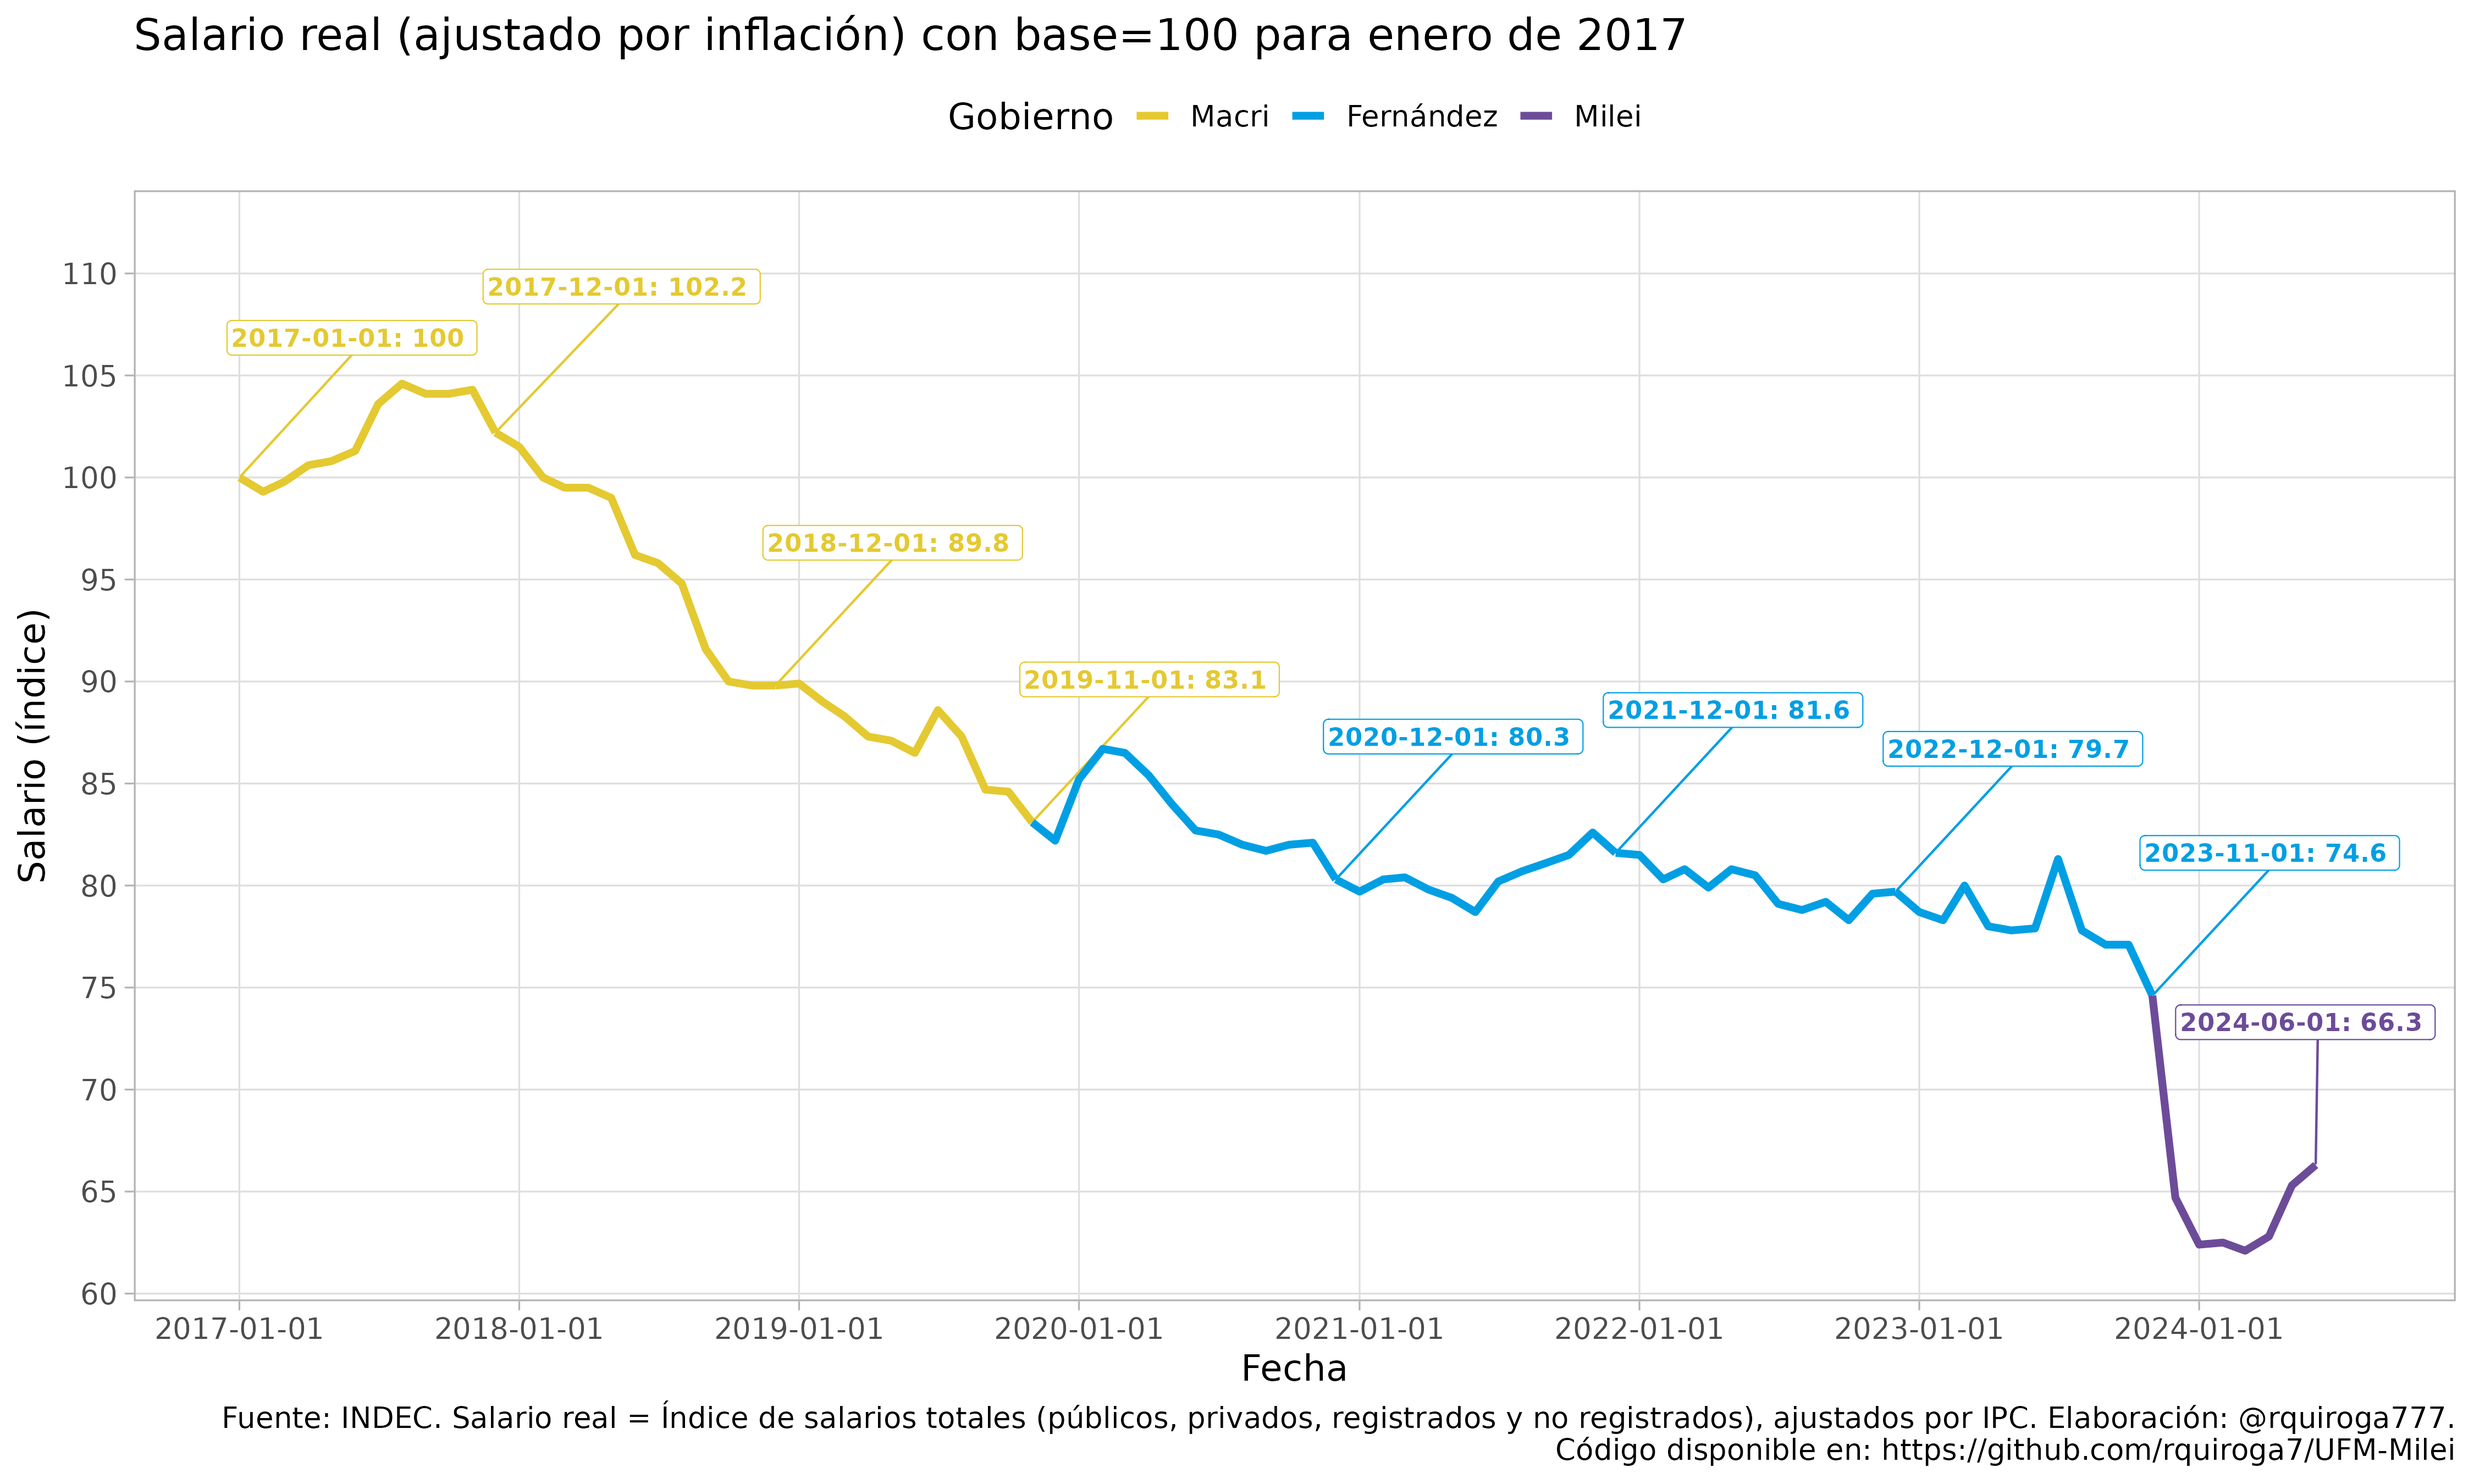
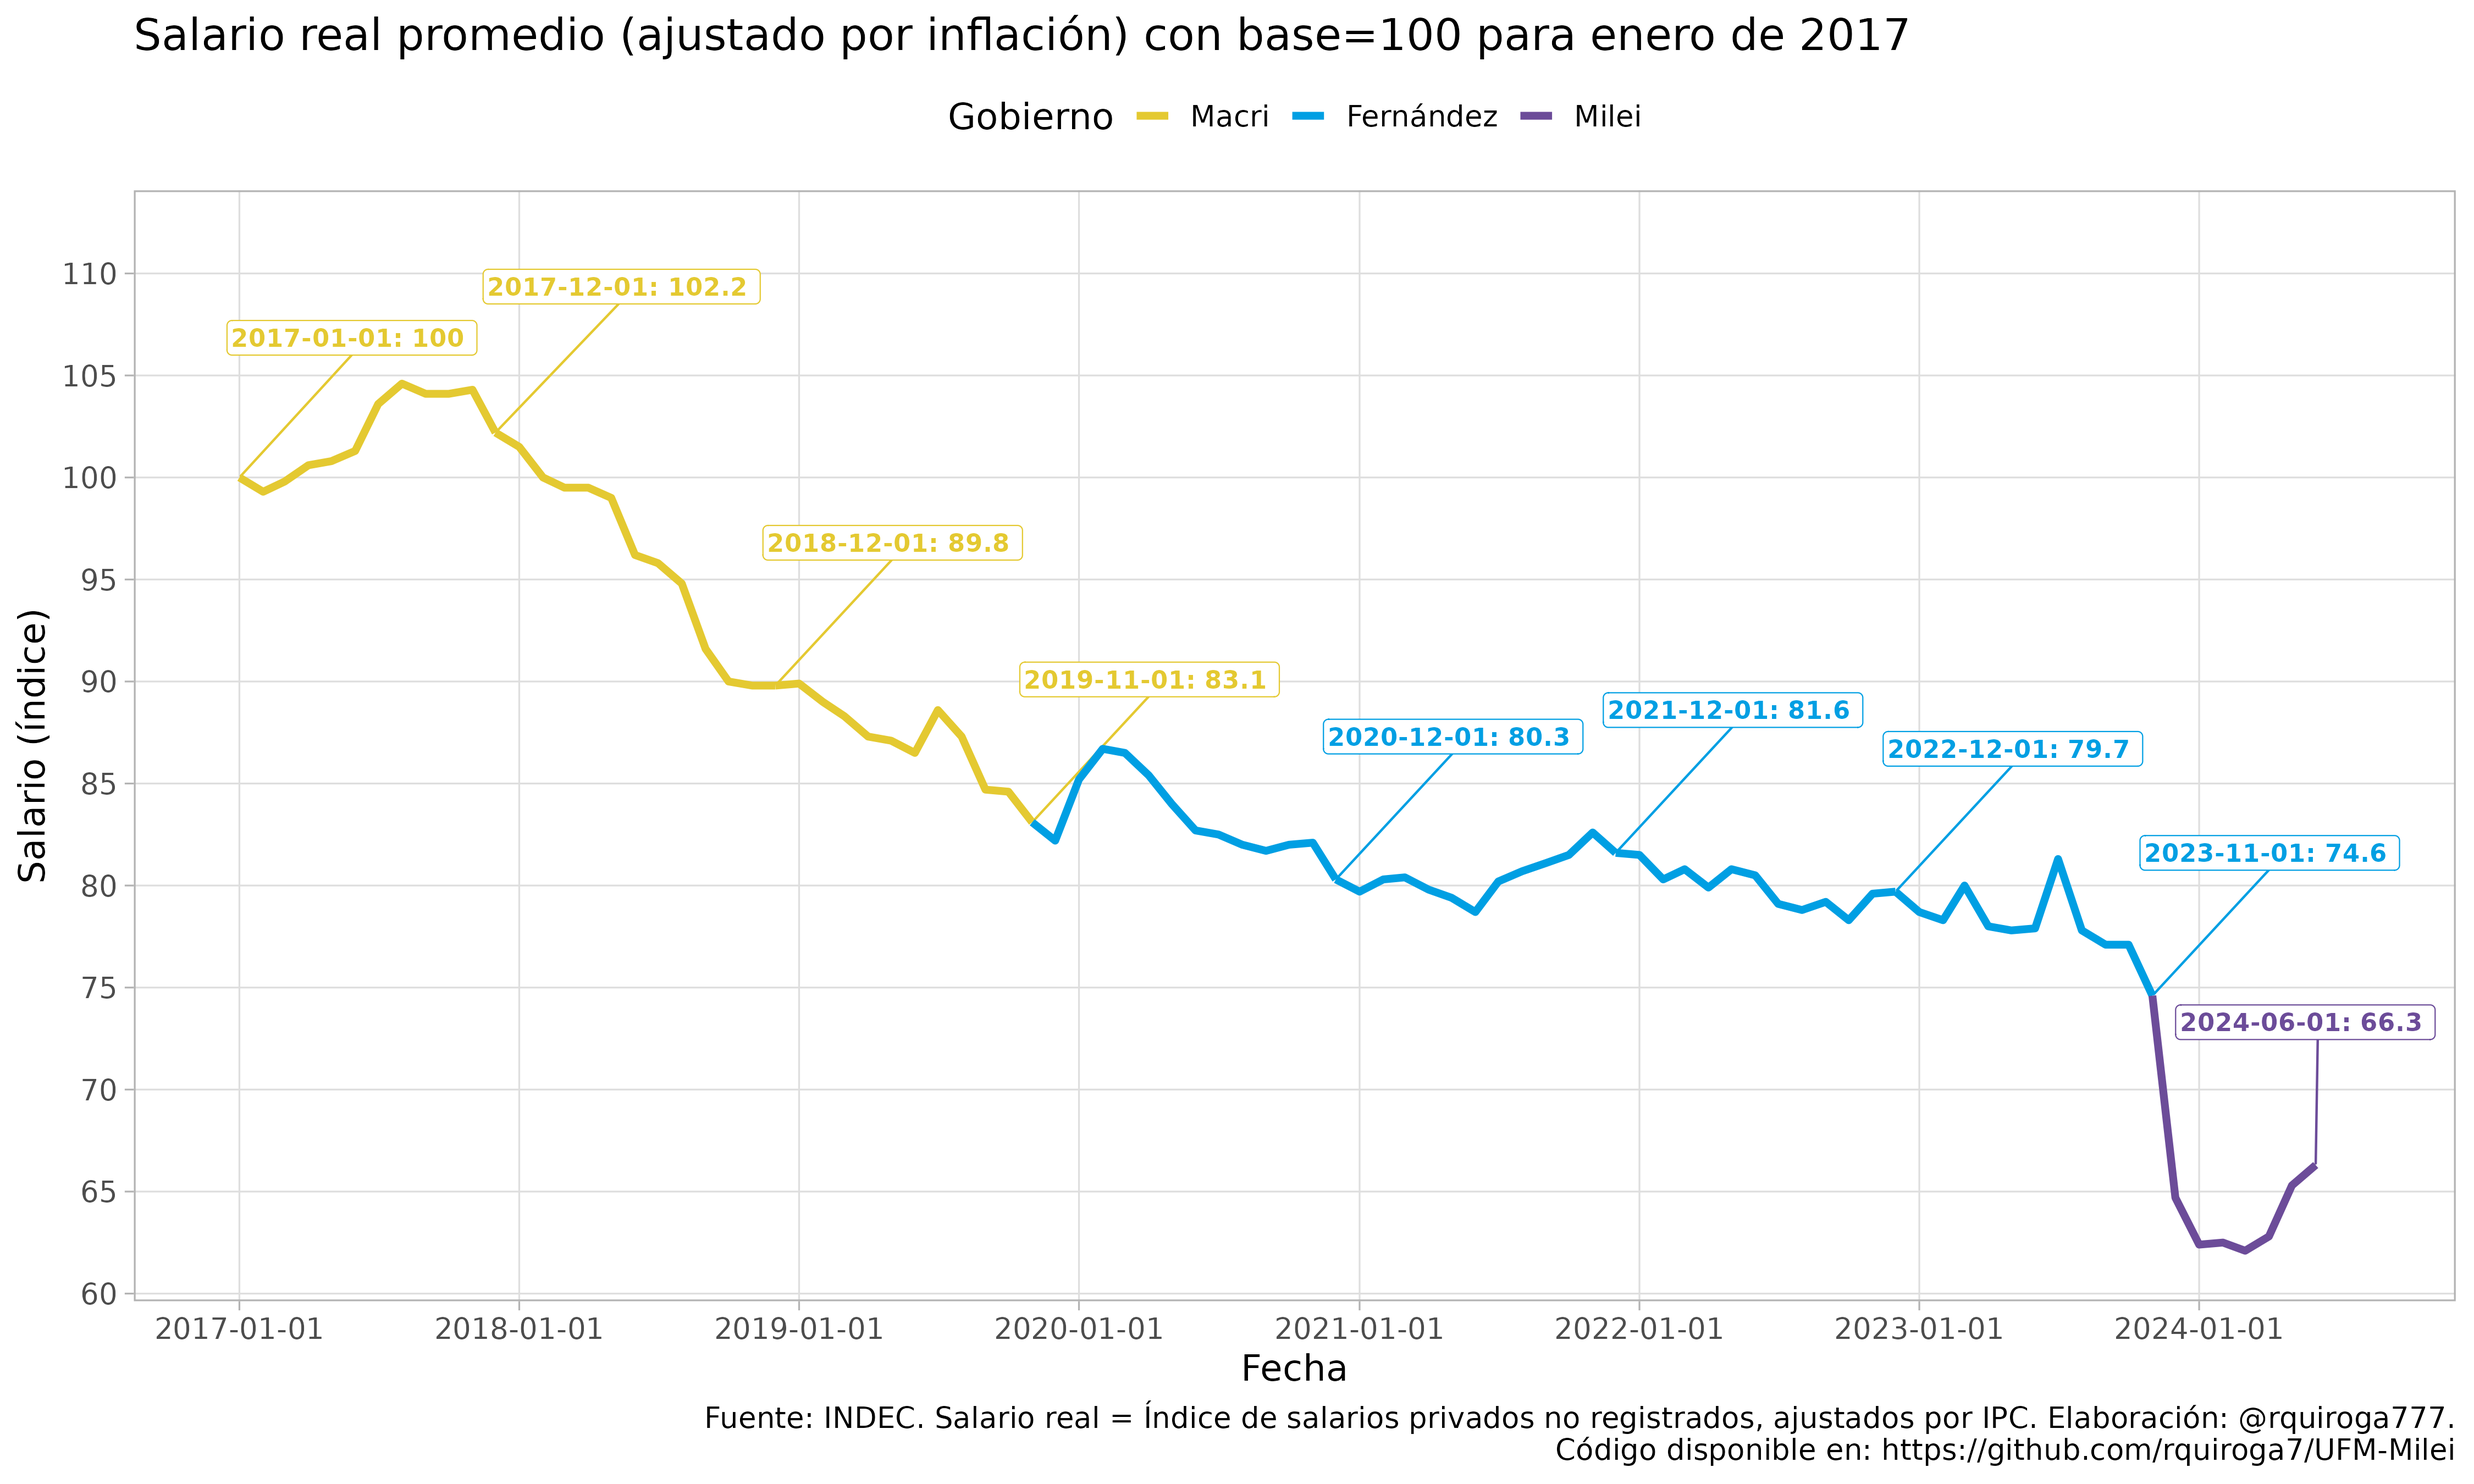
update README

Changed region(s): [[0.1556, 0.0, 0.7778, 0.0311], [0.28, 0.9333, 0.7156, 0.9644], [0.0933, 0.9333, 0.2489, 0.9644]]

diff --git a/README.md b/README.md
@@ -47,9 +47,25 @@ Ahora realizamos un gráfico similar, pero tomando como base el mes de noviembre
 ![Salario real con base 100 para noviembre del año anterior](salario_base100_enero_BIEN.png)
 
 
-Por último, graficamos el indice de salario real (ajustado por inflación) desde 2017  para entender por qué la situación salarial actual es tan agobiante aunque parece haber un ligero repunte desde el mes de mayo (casi exclusivamente debido a los salarios privados registrados, ya que los salarios públicos y los no registrados siguen sin mejoras desde diciembre de 2023). Vemos que se vienen sumando grandes caídas del salario real en los años 2018, 2019 y 2024, acumulado con las caídas menores de los años 2020, 2021 y 2023.
+### Salario real promedio para el período 2017-2024
+
+Por último, graficamos el indice de salario real (ajustado por inflación) desde 2017  para entender por qué la situación salarial actual es tan agobiante aunque parece haber un ligero repunte desde el mes de mayo. Vemos que se vienen sumando grandes caídas del salario real en los años 2018, 2019 y 2024, acumulado con las caídas menores de los años 2020, 2021 y 2023.
 
 ![Salario real 2017-2024 con base 100 para enero de 2017](salario_continuo.png)
+
+
+Al analizar los salarios reales de los trabajadores registrados del sector privado, vemos que es el único sector con recuperación significativa en los meses de mayo y junio de 2024, aunque aún no alcanza a compensar la pérdida de diciembre de 2023.
+![Salario real trabajadores privados registrados para 2017-2024 con base 100 para enero de 2017](salario_continuo_privreg.png)
+
+Al analizar los salarios reales de los trabajadores no registrados del sector privado, vemos que es el sector con mayor pérdida salarial en el período analizado, y hay poca recuperación en los meses de mayo y junio de 2024.
+![Salario real trabajadores privados no registrados para 2017-2024 con base 100 para enero de 2017](salario_continuo_privnoreg.png)
+
+Al analizar los salarios reales de los trabajadores del sector público, vemos que la recuperación en los meses de mayo y junio de 2024 es casi nula.
+![Salario real trabajadores privados no registrados para 2017-2024 con base 100 para enero de 2017](salario_continuo_publico.png)
+
+
+En resumen, aunque en algunos sectores se observa una recuperación de los salarios para mayo y junio, no alcanza para compensar la pérdida de poder adquisitivo que produjo la devaluación decidida en diciembre de 2023 por el gobierno de Milei, mientras que en los sectores públicos y no registrados, el poder adquisitivo de los salarios está en una situación crítica, encontrándose en mínimos históricos para el período analizado.
+
 
 ## Fuente de los datos
 
